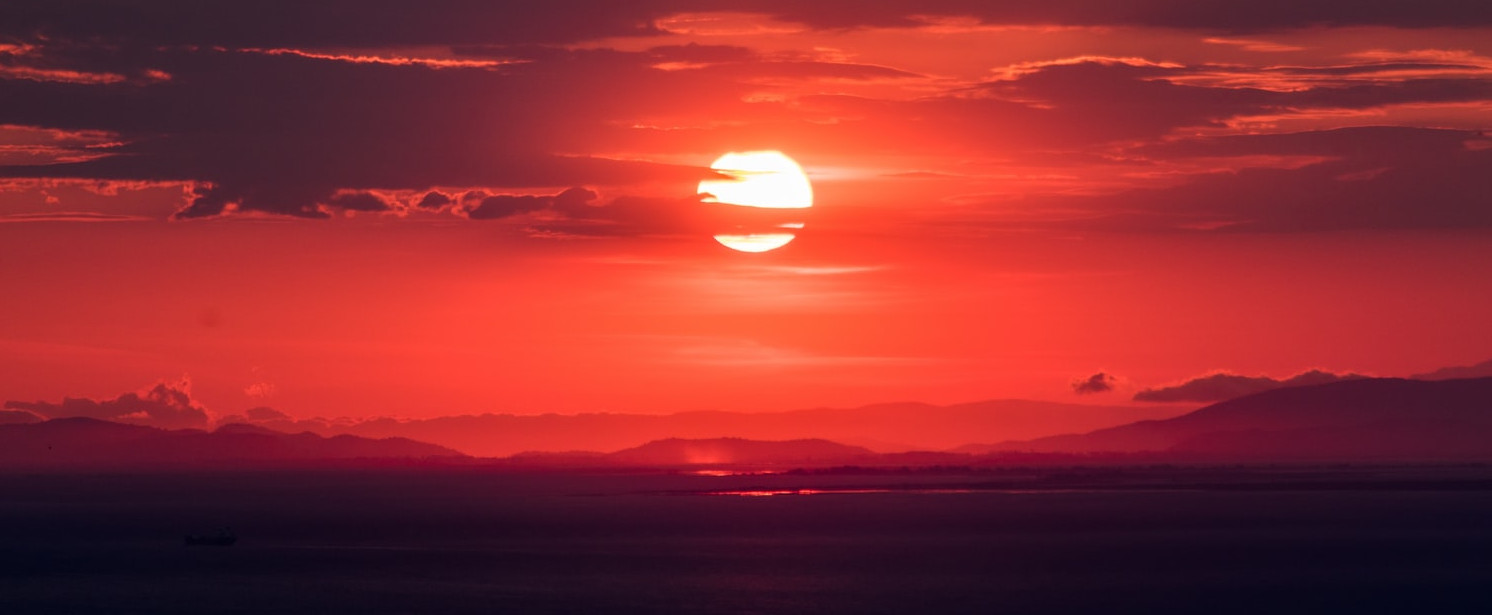
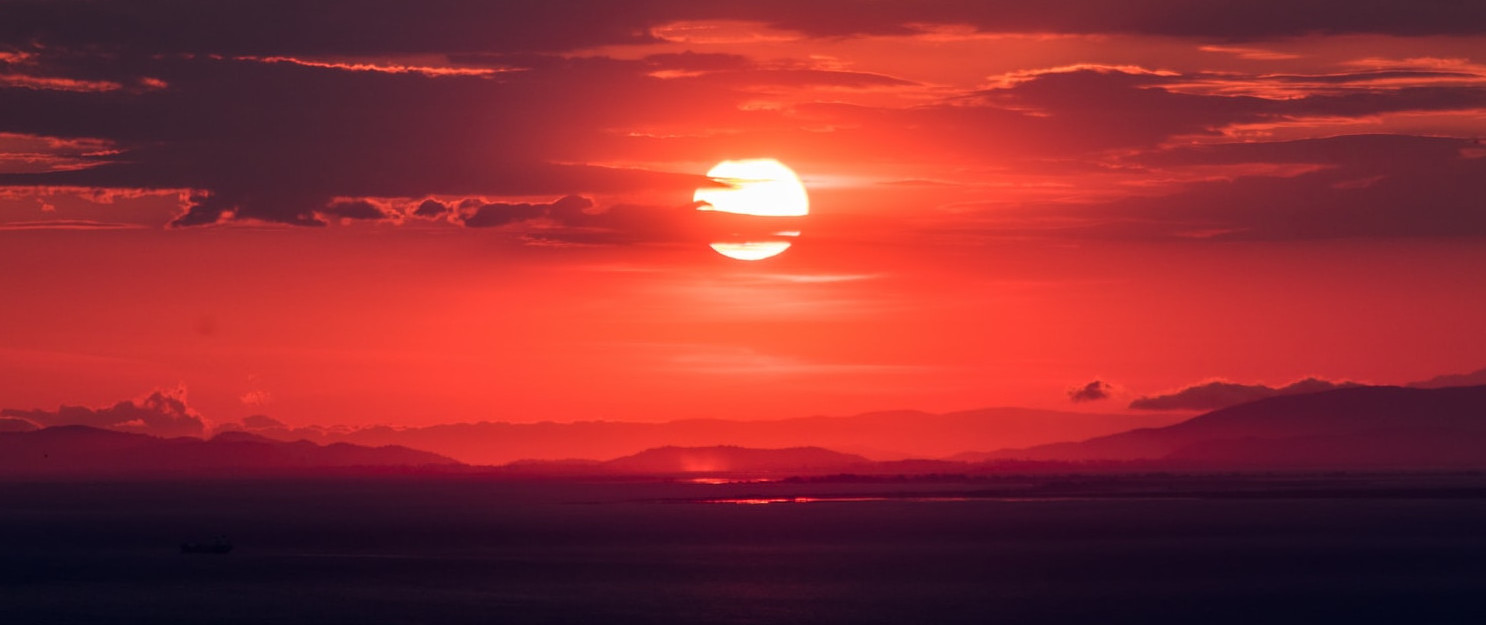
Alterando layout

diff --git a/css/index.css b/css/index.css
@@ -27,6 +27,16 @@ header {
     height: 100vh;
     position: relative;
     overflow: hidden;
+
+    display: flex;
+    justify-content: center;
+    flex-direction: column;
+
+    background-image: url(../img/solzao.jpeg);
+    background-position: center top;
+    background-repeat: no-repeat;
+    background-size: 100%;
+    background-attachment:fixed ;
 }
 
 header:after{
@@ -80,11 +90,8 @@ nav .container {
     font-weight: 200;
 }
 
-.big-title span {
-    font-weight: 400;
-    font-size: 6rem;
-}
 
+/* -------- HAMBURGER MENU -------- */
 .hamburger-menu {
     width: 1.55rem;
     height: 1.5rem;
@@ -93,6 +100,7 @@ nav .container {
     align-items: center;
     justify-content: flex-end;
 }
+
 
 .bar {
     position: relative;
@@ -120,37 +128,41 @@ nav .container {
     transform: translateY(8px);
 }
 
+/* -------- ------- */
+
+.big-title span {
+    font-weight: 400;
+    font-size: 6rem;
+}
+
 .big-title {
-    position: absolute;
-    z-index: 30;
-    line-height:5rem;
-    top: calc(50% - 9rem);
-    left: calc(50% - 30rem);
-    width: 100%;
-    text-align: left;
-    padding: 2rem 2rem;
-    font-size: 4rem;
-    font-weight: 300;
-    color: white;
-    opacity: 80%;
+   
+    width: 60%;
+    margin: 0rem 0 14rem 2rem;
+
+    font-size: 8.7em;
+    font-weight: 800;
+
+
+    background: linear-gradient(30deg, #cd3632 0%, #200a19 45%);
+    -webkit-background-clip: text;
+    -webkit-text-fill-color: transparent;
+
+    letter-spacing: -3px;
+    line-height: 1em;
 }
 
 header p {
-    position: absolute;
     z-index: 30;
-    top: calc(50% - 2rem);
-    left: calc(50% - 43.7rem);
-    width: 100%;
-    text-align: center;
-    text-decoration: none;
-    padding: 0;
+    width: 40%;
+    margin:20em 0 0 2em;
     font-size: 1.2rem;
     font-weight: 300;
     color: white;
-    opacity: 80%;
+    letter-spacing: .8em;
 }
 
-header a{
+/* header a{
     position: absolute;
     z-index: 30;
     top: calc(50% + 16rem);
@@ -167,6 +179,57 @@ header a{
     color: white;
 }
 
+header a :focus{
+    color: red;
+} */
+
+.scrollDown {
+    z-index: 30;
+    height: 30px;
+    width: 30px;
+    border:2px solid transparent;
+    position: absolute;
+    left: 50%;
+    bottom: 20px;
+    border-radius: 50px;
+    cursor: pointer;
+}
+
+.scrollDown::before,
+.scrollDown::after {
+    content: '';
+    position: absolute;
+    top:10%;
+    left: 50%;
+    border: 2px solid red;
+    height: 10px;
+    width: 10px;
+    transform: translate(-50%, -100%) rotate(45deg);
+    border-top: transparent;
+    border-left: transparent;
+    animation: scrollDown 1s ease-in-out infinite;
+}
+
+.scrollDown::after {
+    top:20%;
+    animation-delay: .3s;
+}
+
+@keyframes scrollDown{
+    0%{
+        opacity: 0;
+    }
+    30%{
+        opacity: 1;
+    }
+    60%{
+        opacity: 1;
+    }
+    100%{
+        opacity: 0;
+        top:90%;
+    }
+}
 
 section {
     width: 100%;
@@ -208,25 +271,29 @@ section .container > *{
 
 .headerBusca {
     display: flex;
-
     margin: 2em;
 }
 
 
 #busca-endereco {
+    background-color: #222;
     color: #e73f35;
-    width: 45%;
+    width: 65%;
     font-size: 1.2rem;
-    border-bottom-left-radius: 8px;
-    border-top-left-radius: 8px;
-    border: 2px solid black;
+    border-bottom-left-radius: 20px;
+    border-top-left-radius: 20px;
+    border: 2px solid #222;
+    border-right: 1px solid #333;
+    text-align: center;
 }
 
 #busca-estado {
+    background-color:#222;
+    color: #e73f35;
     width: 20%;
     border-right: 0;
-    border-top: 2px solid black;
-    border-bottom: 2px solid black;
+    border: 2px solid #222;
+    text-align: center;
 }
 
 #busca-endereco:focus, #busca-estado:focus {
@@ -236,13 +303,19 @@ section .container > *{
 #search {
     background-image: linear-gradient(#a01f56, #e73f35);
     border: 2px solid black;
-    border-bottom-right-radius: 8px;
-    border-top-right-radius: 8px;
+    border-bottom-right-radius: 20px;
+    border-top-right-radius: 20px;
     padding: 0.3rem;
+    cursor: pointer;
+    border:none
 }
 
 #search:focus {
-    outline: 0;
+   outline: 0;
+}
+
+#search:active {
+    background-image: linear-gradient(#eec555, #e73f35);
 }
 
 #search img {
@@ -257,7 +330,6 @@ section .container > *{
     z-index: 20;
     background: linear-gradient(to top, black, black, transparent);
 }
-
 
 
 @media (max-width: 420px) {

diff --git a/index.html b/index.html
@@ -20,18 +20,18 @@
                 </div>
             </div>
         </nav>
-    
-        <h1 class="big-title translate" data-speed="0.5"> 
-            SUNSET AND SUNRISE TIME 
-        </h1>
+
         <p class="description translate" data-speed="0.5">
-            Consulte o horário do nascer do sol, por do sol, crepuscúslo e duração do dia
-            de qualquer lugar do Brasil.
-        </p>
+            Consulte o horário do
+        </p> 
+       
+        <h1 class="big-title translate" data-speed="0.5"> 
+            Por do So
+        </h1>   
    
-        <a href="#search">↓</a>       
+        <!-- <a href="#search">↓</a>        -->
+        <div class="scrollDown"></div>
     
-        <img src="img/solMenor.jpeg" alt="Banner por do sol" class="sky translate" data-speed="0.7">
         <img src="img/sombra.png" alt="Banner por do sol" class="shadow translate" data-speed="0.25">
     </header>
     
@@ -46,10 +46,10 @@
                         
                         <br>
                         <input type="text" name="busca" id="busca-endereco" 
-                            placeholder=" Endereço, ex: Av. Paulista">
-                        <input type="text" name="busca" id="busca-estado" placeholder=" Estado..">
+                            placeholder="Endereço, ex: Av. Paulista">
+                        <input type="text" name="busca" id="busca-estado" placeholder="Estado..">
             
-                        <button id="search" class="botao-adiciona botao-verde">
+                        <button id="search" class="botao-busca">
                             <img src="img/busca.png"> Buscar
                         </button>
                     </div>
@@ -66,8 +66,8 @@
         </div>
     </section>
     <script src="https://code.jquery.com/jquery-3.3.1.slim.min.js" integrity="sha384-q8i/X+965DzO0rT7abK41JStQIAqVgRVzpbzo5smXKp4YfRvH+8abtTE1Pi6jizo" crossorigin="anonymous"></script>
-<script src="https://cdnjs.cloudflare.com/ajax/libs/popper.js/1.14.3/umd/popper.min.js" integrity="sha384-ZMP7rVo3mIykV+2+9J3UJ46jBk0WLaUAdn689aCwoqbBJiSnjAK/l8WvCWPIPm49" crossorigin="anonymous"></script>
-<script src="https://stackpath.bootstrapcdn.com/bootstrap/4.1.3/js/bootstrap.min.js" integrity="sha384-ChfqqxuZUCnJSK3+MXmPNIyE6ZbWh2IMqE241rYiqJxyMiZ6OW/JmZQ5stwEULTy" crossorigin="anonymous"></script>
+    <script src="https://cdnjs.cloudflare.com/ajax/libs/popper.js/1.14.3/umd/popper.min.js" integrity="sha384-ZMP7rVo3mIykV+2+9J3UJ46jBk0WLaUAdn689aCwoqbBJiSnjAK/l8WvCWPIPm49" crossorigin="anonymous"></script>
+    <script src="https://stackpath.bootstrapcdn.com/bootstrap/4.1.3/js/bootstrap.min.js" integrity="sha384-ChfqqxuZUCnJSK3+MXmPNIyE6ZbWh2IMqE241rYiqJxyMiZ6OW/JmZQ5stwEULTy" crossorigin="anonymous"></script>
     
     <script src="js/index.js"></script>
     <script src="js/view/parallax.js"></script>

diff --git a/js/view/parallax.js b/js/view/parallax.js
@@ -3,7 +3,6 @@ const bigTitle = document.querySelector('.big-title');
 const description = document.querySelector(".description")
 const btnScroll = document.querySelector("header a");
 const header = document.querySelector("body");
-
 let header_height = header.offsetHeight;
 
 window.addEventListener('scroll', () => {
@@ -11,7 +10,6 @@ window.addEventListener('scroll', () => {
 
     translate.forEach(element => {
         let speed = element.dataset.speed;
-        console.log(speed)
         element.style.transform = `translateY(${scroll * (speed + 9.0)}px)`;
     })
 

diff --git a/js/index.js b/js/index.js
@@ -25,7 +25,9 @@ const formatedTime = time => {
     let x;
     for(x in timezone){
         if(us.toUpperCase() === x){
+            console.log(time, '---');
         let arrayTime = time.split("");
+        console.log(arrayTime);
         arrayTime[0] = (parseInt(arrayTime[0]) - timezone[x]).toString();
         time = arrayTime.join('');
         }
